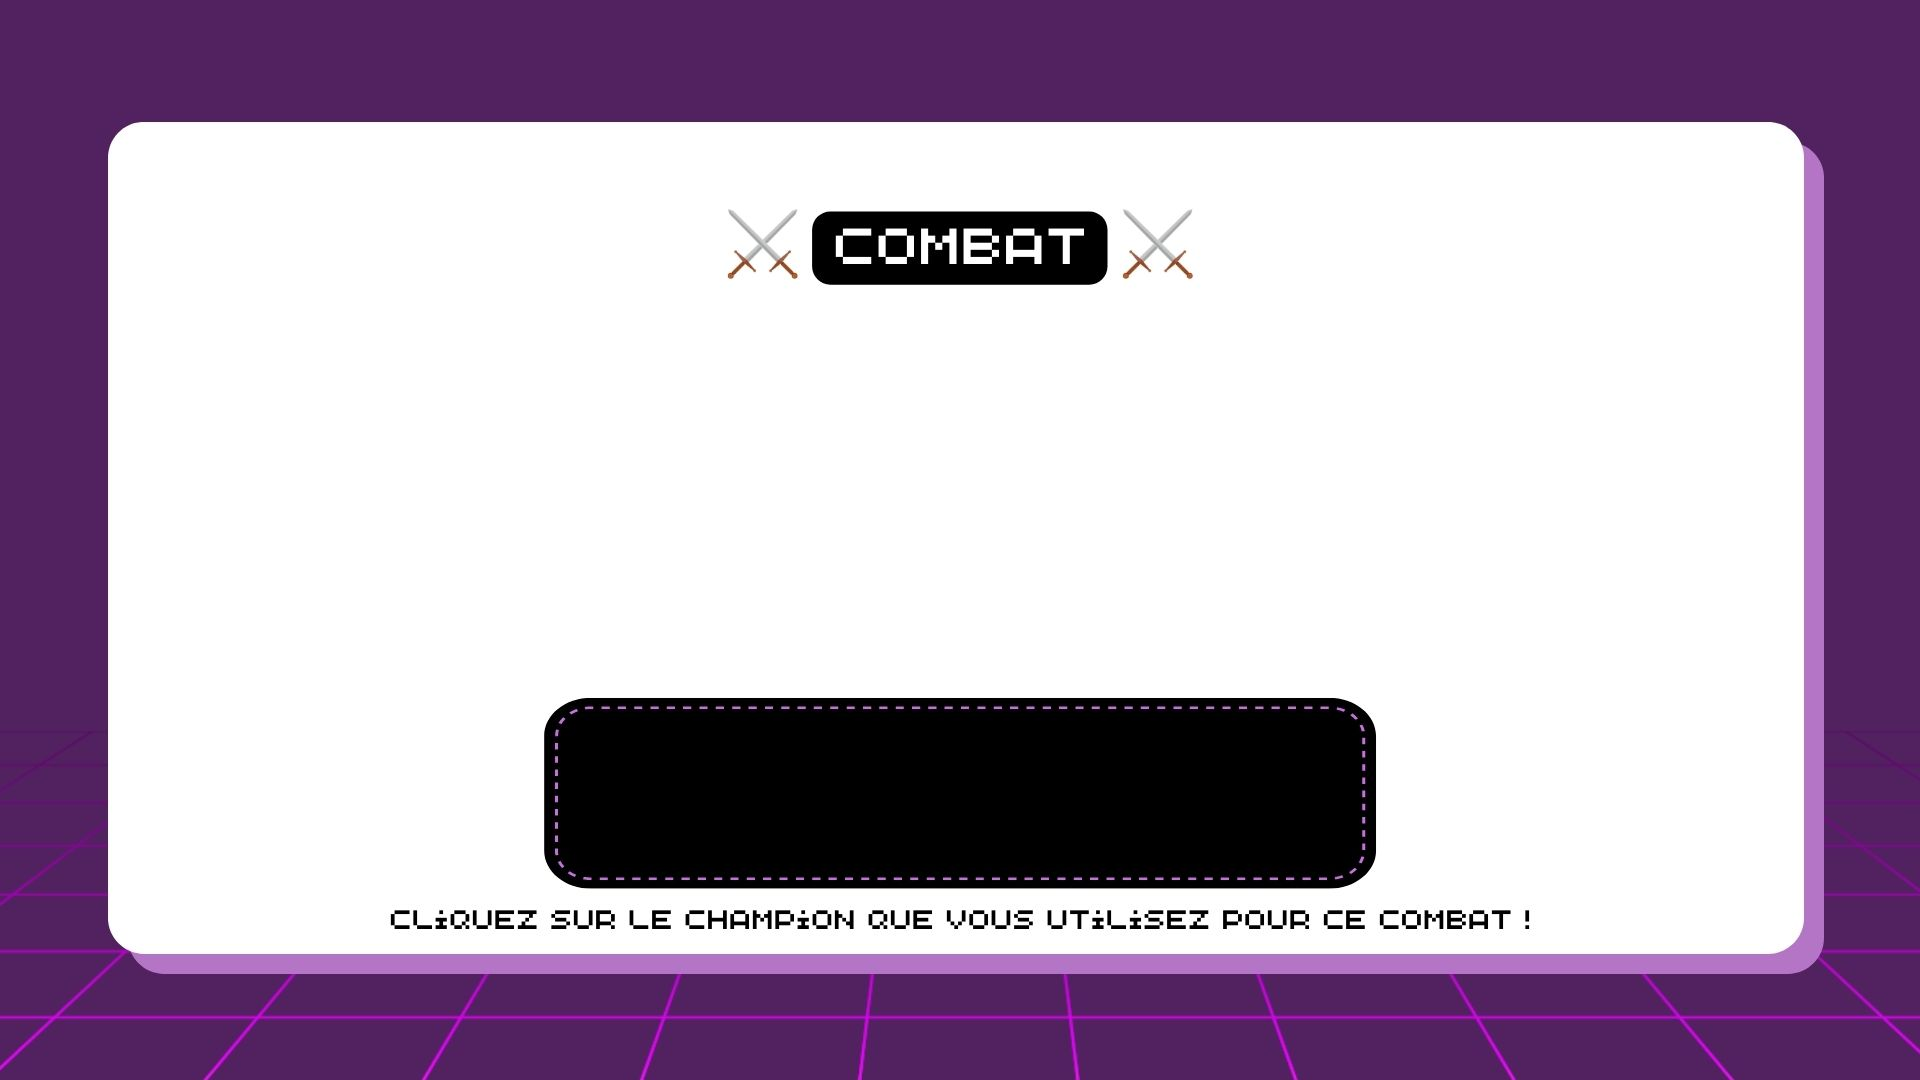
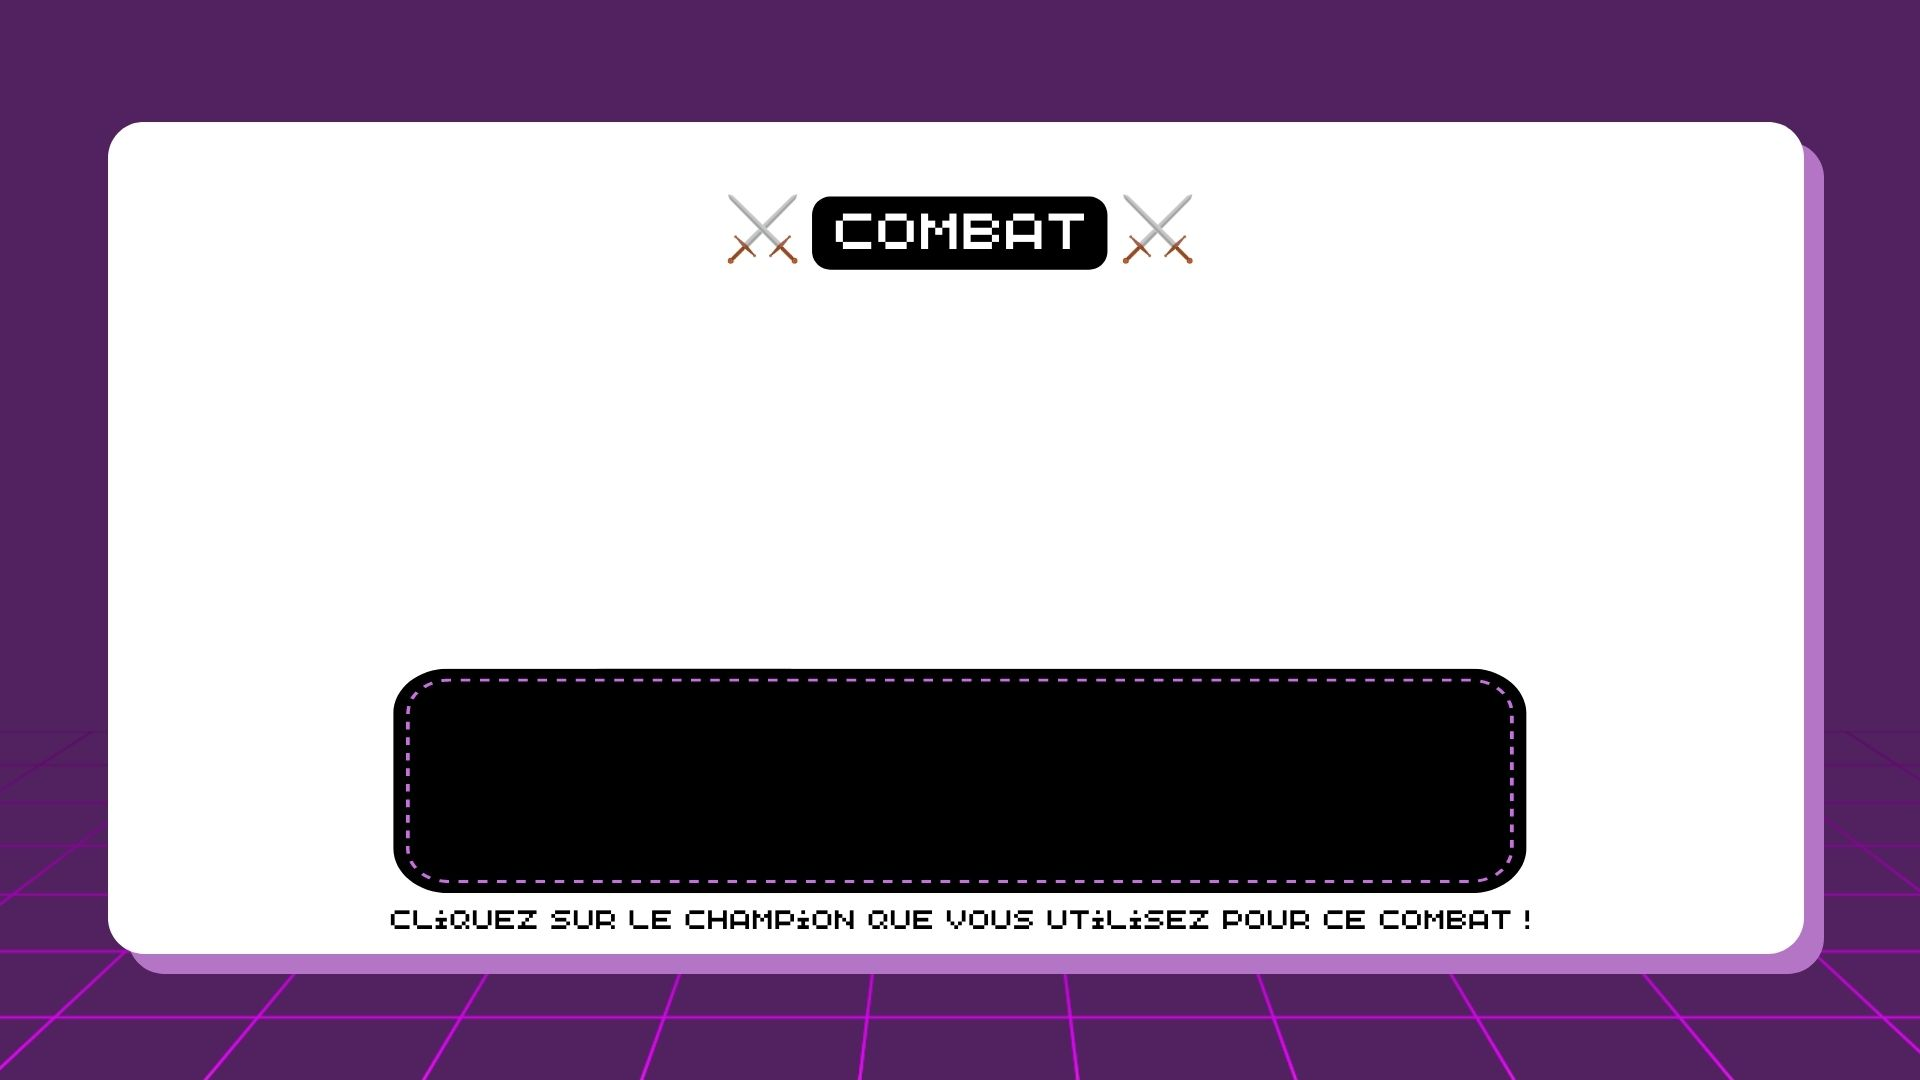
Nouvelles images

Changed region(s): [[0.1875, 0.6111, 0.8125, 0.825], [0.375, 0.1833, 0.625, 0.275]]

diff --git a/build/resources/main/style.css b/build/resources/main/style.css
@@ -61,7 +61,7 @@
 }
 
 #listeChampions{
-    -fx-padding: 100 0 0 0;
+    -fx-padding: 130 0 0 0;
     -fx-alignment: center;
     -fx-spacing: 25;
 }
@@ -75,7 +75,7 @@
 
 #conteneurChampions{
     -fx-alignment: center;
-    -fx-padding: 0 0 165 0;
+    -fx-padding: 0 0 170 0;
     -fx-spacing: 10;
 }
 

diff --git a/src/main/resources/style.css b/src/main/resources/style.css
@@ -61,7 +61,7 @@
 }
 
 #listeChampions{
-    -fx-padding: 100 0 0 0;
+    -fx-padding: 130 0 0 0;
     -fx-alignment: center;
     -fx-spacing: 25;
 }
@@ -75,7 +75,7 @@
 
 #conteneurChampions{
     -fx-alignment: center;
-    -fx-padding: 0 0 165 0;
+    -fx-padding: 0 0 170 0;
     -fx-spacing: 10;
 }
 
